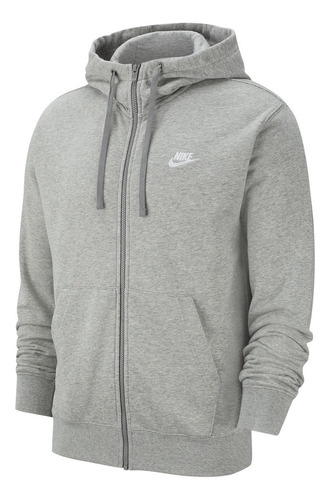
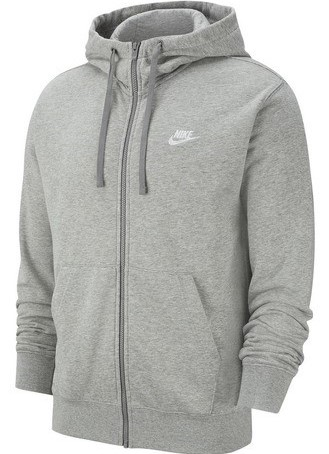
corregir height de img

diff --git a/assets/css/style.css b/assets/css/style.css
@@ -72,6 +72,7 @@ button {
     text-align: center;
     border: solid 1px none;
     background: white;
+    height: 50%;
 
 
 }
@@ -87,4 +88,9 @@ button {
     display: flex;
     flex-direction: column;
     padding: 5%;
+}
+
+
+.content1 img{
+    height: 61%;
 }
